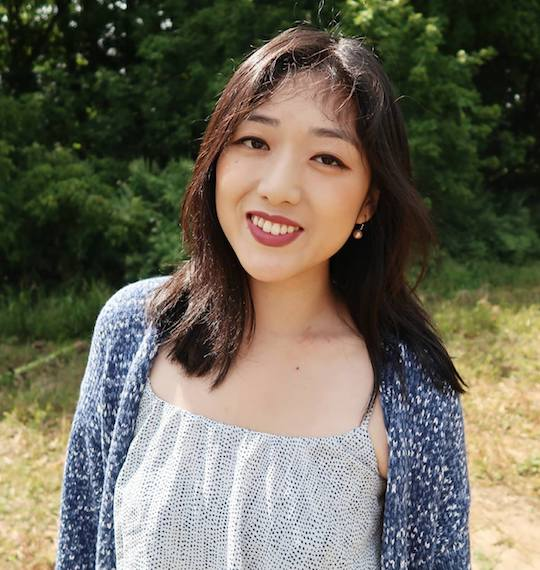
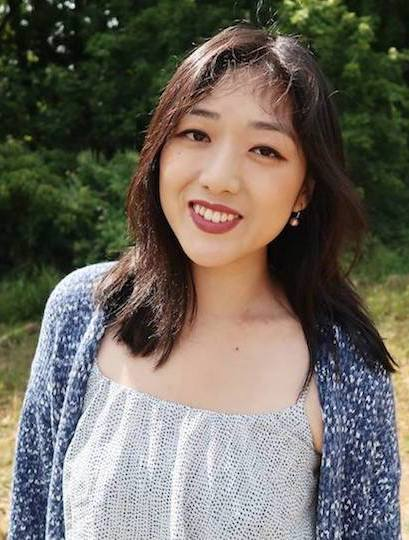
images

diff --git a/rosecricchio.php b/rosecricchio.php
@@ -4,8 +4,6 @@
 	<head>
 		<meta charset="utf-8">
 		<title>Rose Cricchio</title>
-		<link rel="stylesheet" href="css/styles.css">
-		<link rel="stylesheet" href="css/navigation.css">
 	</head>
 
 	<body>
@@ -28,6 +26,8 @@
 		<div class="container">
 
 			<h2>Rose Cricchio</h2>
+
+			<img src="images/rose.jpg" alt="Rose Cricchio">
 
 				<h3>About Me</h3>
 

diff --git a/torimadway.php b/torimadway.php
@@ -4,8 +4,6 @@
 	<head>
  		<meta charset="utf-8">
   		<title>Tori Madway</title>
-  		<link rel="stylesheet" href="css/styles.css">
-		<link rel="stylesheet" href="css/navigation.css">
 	</head>
 
 	<body>
@@ -28,6 +26,8 @@
 		<div class="container">
 
 			<h2>Tori Madway</h2>
+
+			<img src="images/tori.jpg" alt="Tori Madway">
 
 				<h3>About Me</h3>
 

diff --git a/hillarychun.php b/hillarychun.php
@@ -29,6 +29,8 @@
 
 			<h2>Hillary Chun</h2>
 
+			<img src="images/hillary.jpg" alt="Hillary Chun">
+
 				<h3>About Me</h3>
 
 					<ul>
